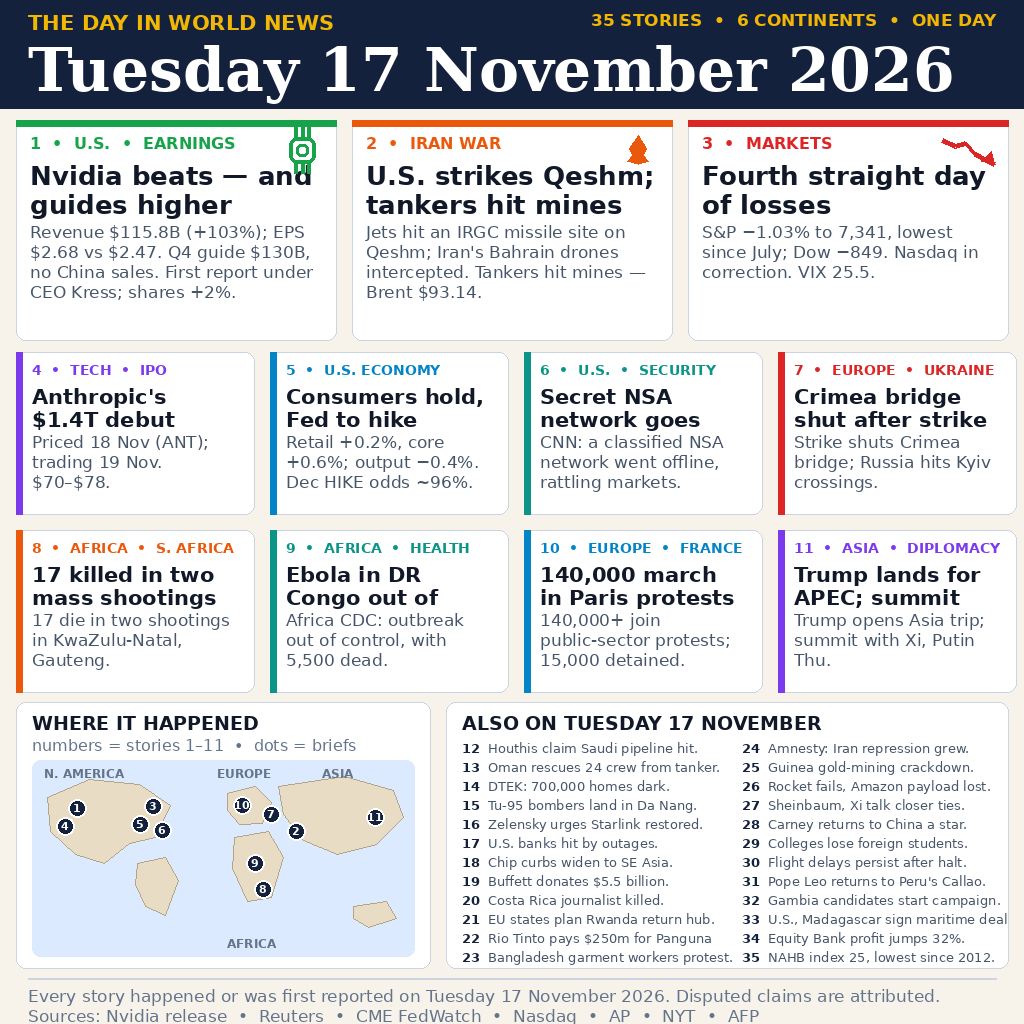
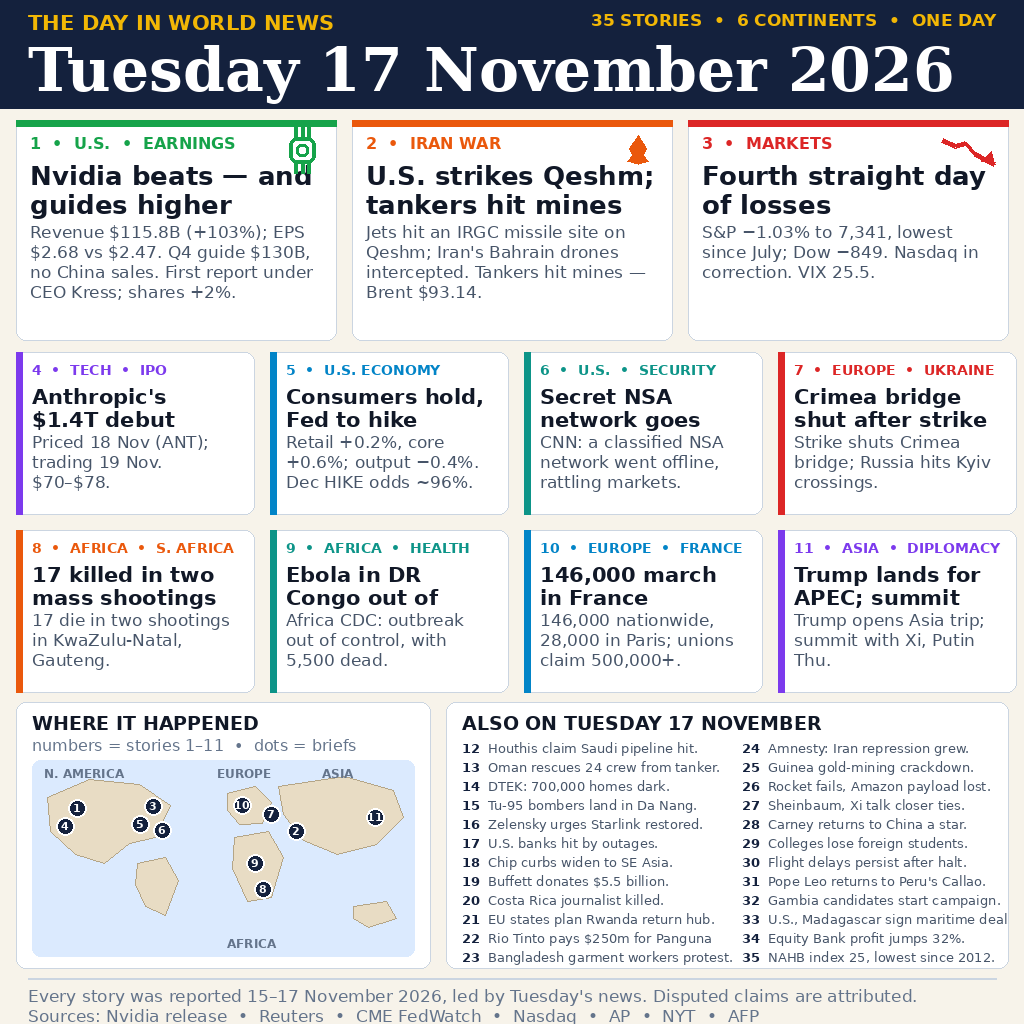
news-image-20261117: fix Paris protest numbers + footer dates per An Lan review
- #10: 146,000 nationwide, 28,000 in Paris (Interior Ministry);
  unions claim 500,000+. Was 140,000 in Paris + 15,000 detained
  (wrong scope and wrong milestone).
- Footer: stories reported 15-17 Nov, led by Tuesday's news
  (was: every story on 17 Nov; 8 stories are 15-16 Nov).
- main.ts comment: 35 stories, 15-17 Nov (was 20 stories, 17 Nov).
- Rendered twice, identical sha256 8569735a...56b, 198,477 bytes.

Changed region(s): [[0.125, 0.9688, 0.9062, 1.0], [0.5312, 0.5625, 0.7188, 0.6562]]

diff --git a/main.ts b/main.ts
@@ -1,11 +1,12 @@
 // news-image-20261117 entry (Node 22, standard library only).
 //
 // The image beside this file sums up Tuesday 17 November 2026 in one
-// picture: a light newspaper front page with a dated masthead, the three
+// picture: a dense newspaper front page with a dated masthead, the three
 // biggest stories (Nvidia's earnings beat, the U.S. strikes on Qeshm and the
 // Hormuz tanker mines, the fourth straight day of market losses), eight more
-// numbered stories from five continents, a world map, and nine one-line
-// briefs — 20 stories in all, every one reported on 17 November 2026.
+// numbered stories, a world map with numbered pins, and 24 one-line
+// briefs — 35 stories in all, reported 15–17 November 2026 and led by
+// Tuesday's news.
 //
 // The program copies that image to /output/entry.png (or to
 // $MAKEFUN_OUTPUT_DIR when set, for local runs). It reads nothing else and
